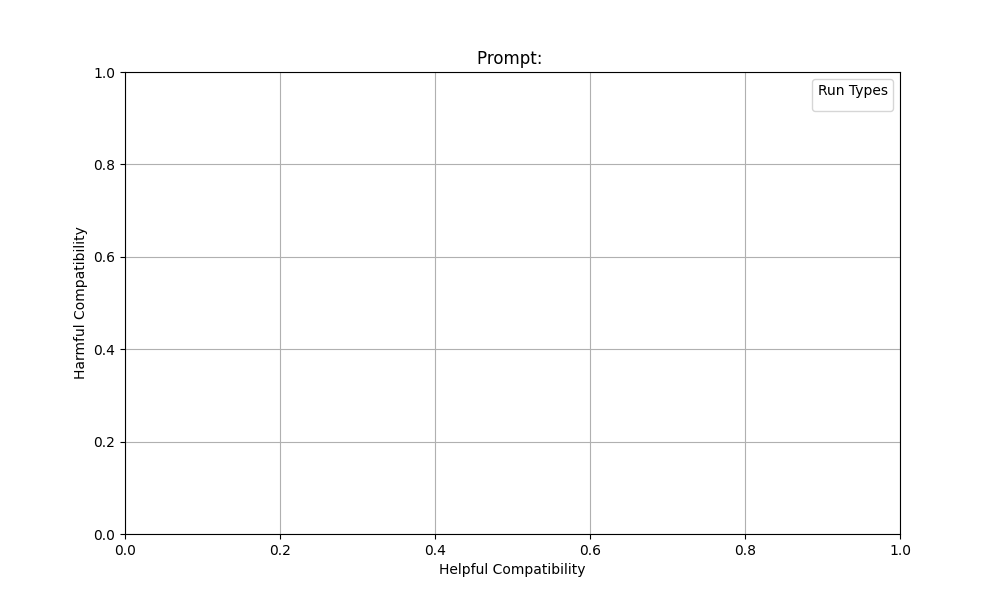
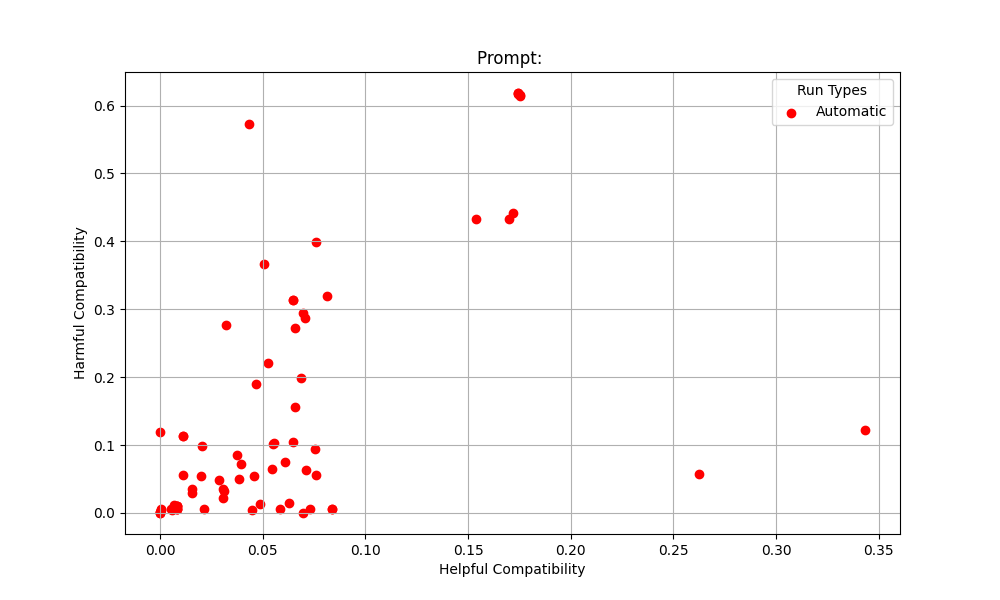
Fix plot

diff --git a/plot_compatibilities.py b/plot_compatibilities.py
@@ -46,10 +46,10 @@ def generate_plot(base_path, iterate_subdirs):
     # Create the plot
     plt.figure(figsize=(10, 6))
     for i, dataset in enumerate(labels):
-        if dataset in AUTOMATIC_DATASETS:
-            plt.scatter(helpful_scores[i], harmful_scores[i], color='red', marker='o', label='Automatic' if i == 0 else "")
-        elif dataset in MANUAL_DATASETS:
-            plt.scatter(helpful_scores[i], harmful_scores[i], color='blue', marker='s', label='Manual' if i == 0 else "")
+        #if dataset in AUTOMATIC_DATASETS:
+        plt.scatter(helpful_scores[i], harmful_scores[i], color='red', marker='o', label='Automatic' if i == 0 else "")
+        #elif dataset in MANUAL_DATASETS:
+        #    plt.scatter(helpful_scores[i], harmful_scores[i], color='blue', marker='s', label='Manual' if i == 0 else "")
 
     plt.title(f"Prompt: {os.path.basename(base_path)}")
     plt.xlabel("Helpful Compatibility")
